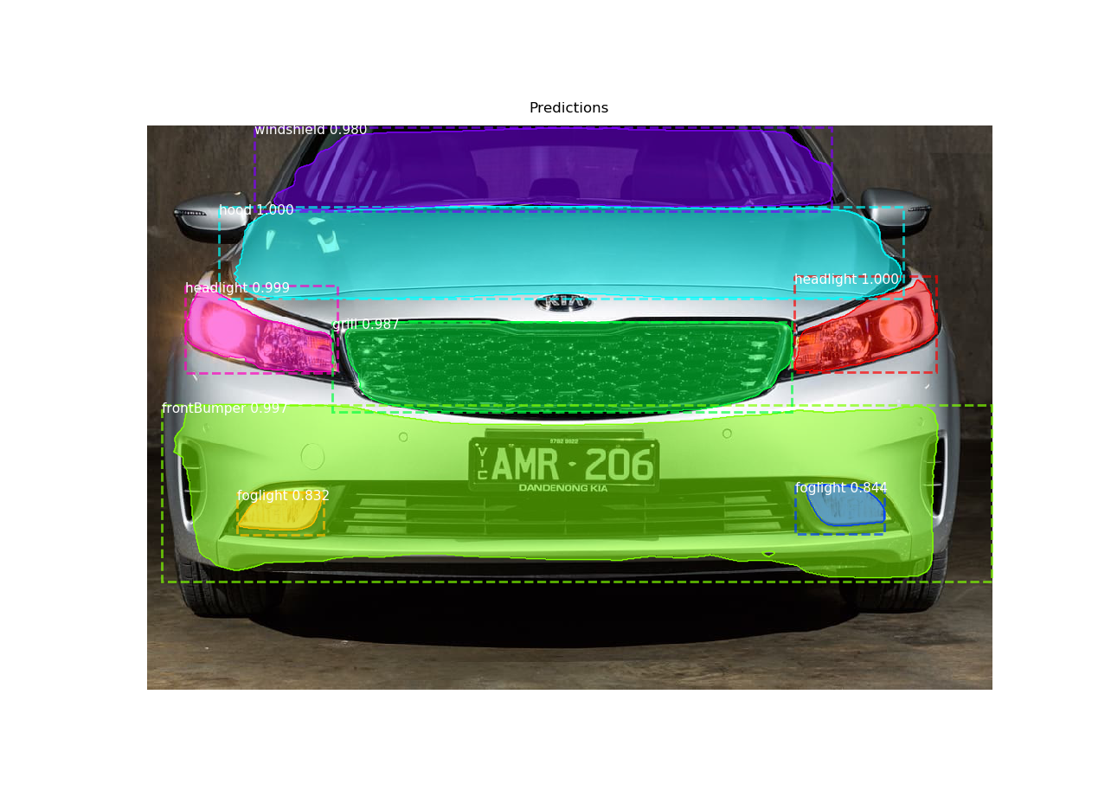
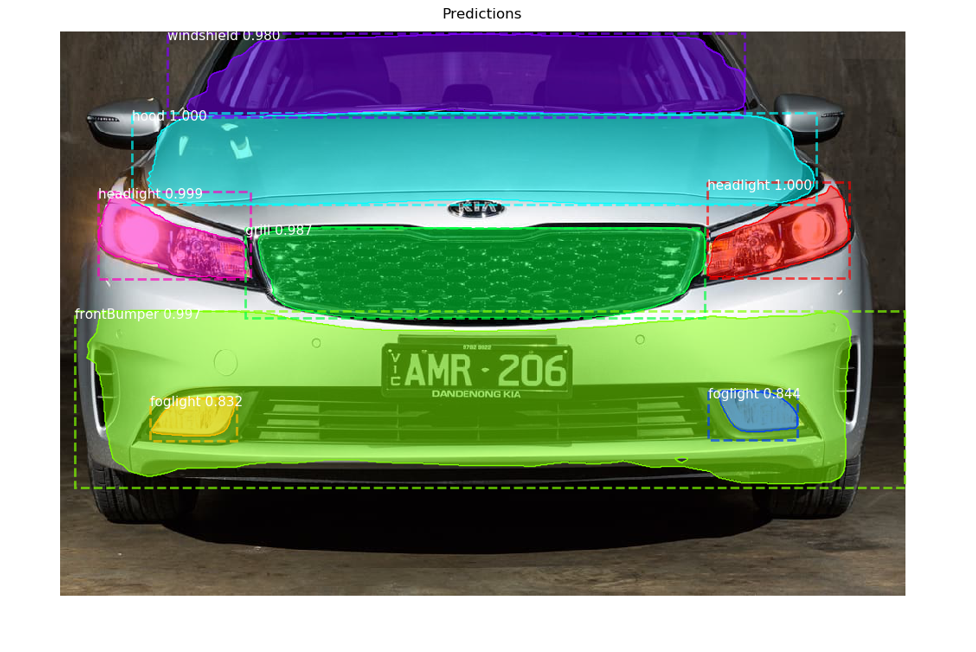
Added Car Damage Images

diff --git a/index.html b/index.html
@@ -216,6 +216,12 @@
                      <dt>Image Classification (Multi Class)</dt>
                      <dd>If Classified as a damaged part, the image segment was further processed to feed into another classifier which identifies the severity of the damage. For this, I developed an multi class Image Classification Model to identify the severity of the damage part into 3 categories i.e <i>Minor, Moderate & Severe</i>.</dd>
                   </dl>
+                   <div class="twelve columns">
+
+                     <img class="profile-pic"  src="images/ust_1.png" alt="" />
+                     <img class="profile-pic"  src="images/ust_2.png" alt="" />
+
+                  </div>
 
                </div>
 
